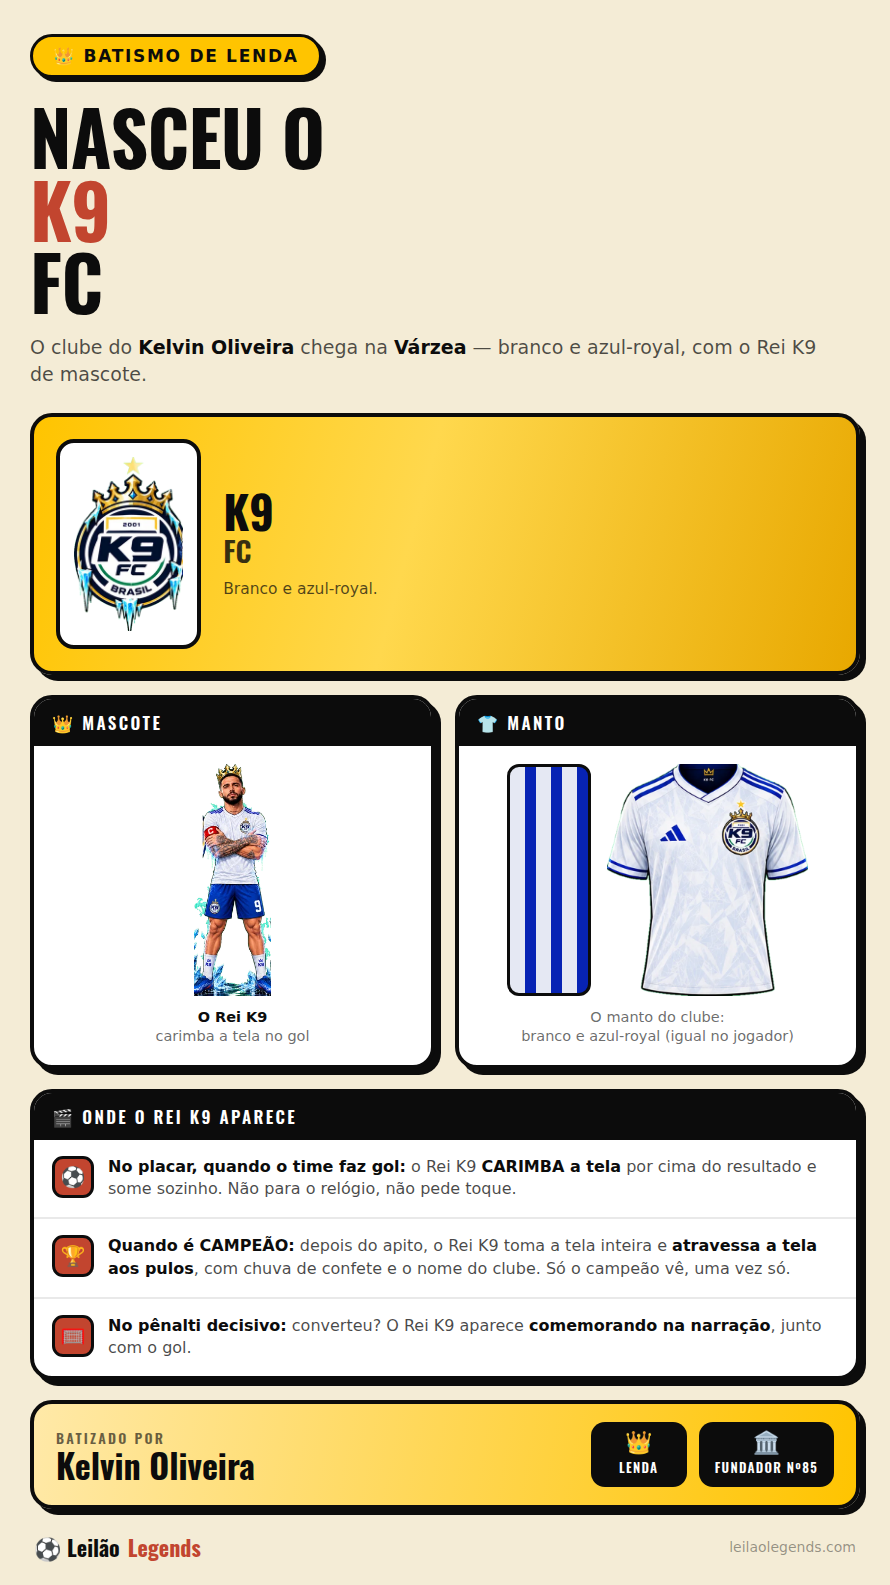
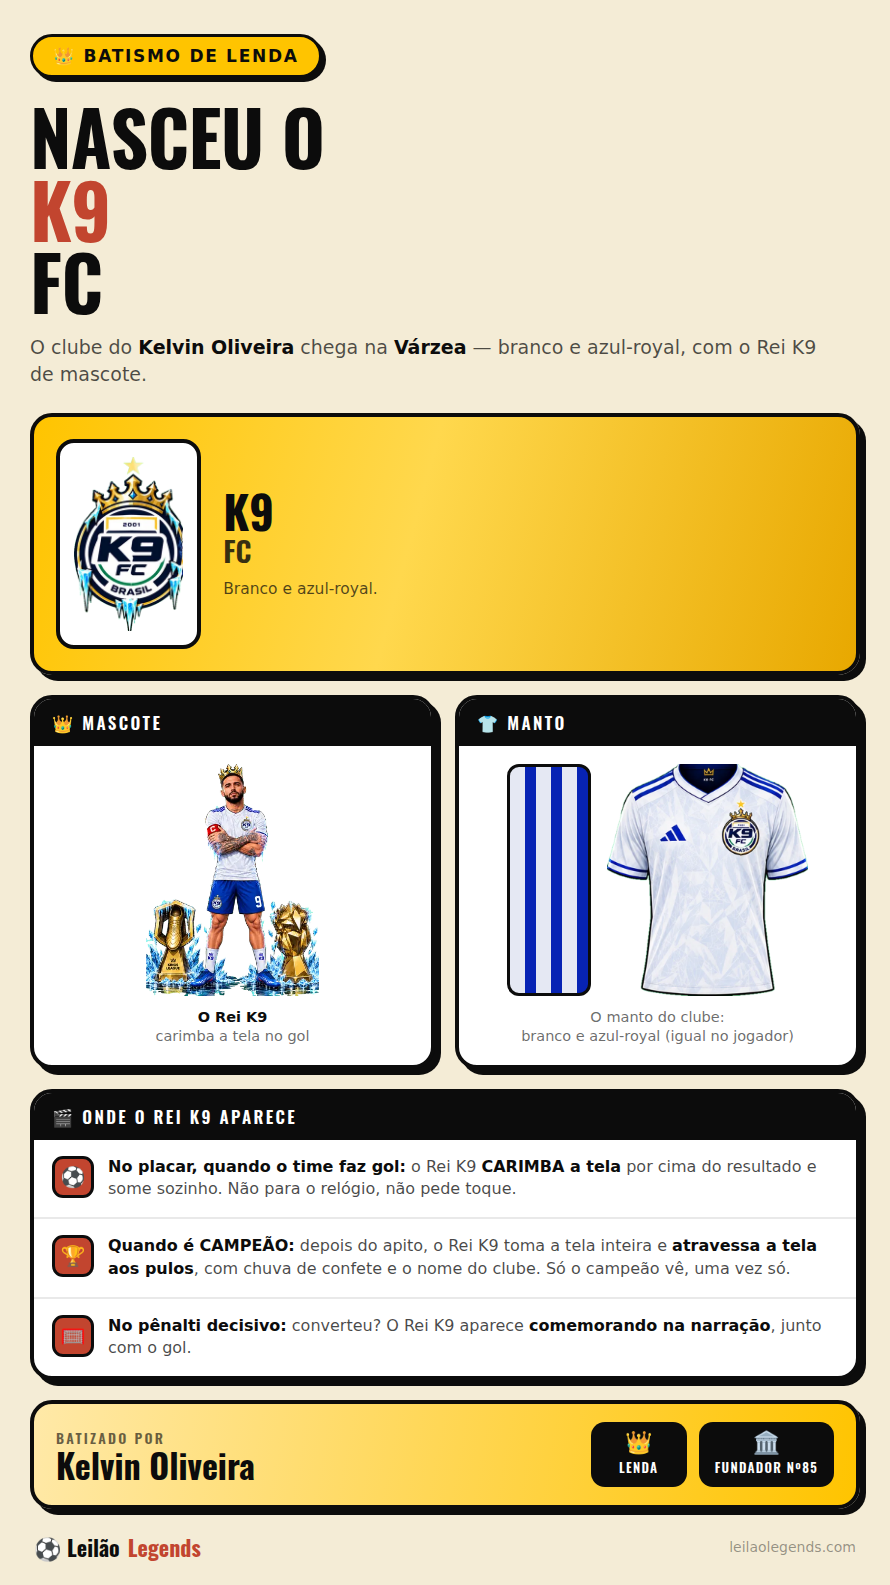
K9 FC: mascote com as duas taças e o gelo, braço da braçadeira inteiro (aprovado pelo Diego)
Claude-Session: https://claude.ai/code/session_018Ap1zPCMVL9XeZJN3u93ZA

Changed region(s): [[0.1517, 0.4637, 0.364, 0.6492]]

diff --git a/src/escalacao/mascotes.tsx b/src/escalacao/mascotes.tsx
@@ -351,10 +351,12 @@ export const MASCOTES: Record<string, ReactNode> = {
   // tridente, agachado com a garra em cima da bola. Arte do próprio dono.
   // 📏 258×440, 45 KB — é ALTO, então a altura fica em 176. mascote_key = "vieira_diabo".
   // 👑 O REI K9 (mascote do K9 FC — kelvinoliveiraandradeenunes, 06/10): o próprio camisa 9 de coroa,
-  // braços cruzados e braçadeira de capitão, pisando no gelo. Arte do próprio dono.
-  // 📏 145×440, 32 KB — é ALTO, então a altura fica em 176. mascote_key = "k9_rei".
+  // braços cruzados e braçadeira de capitão, entre as duas taças, pisando no gelo. Arte do próprio dono.
+  // Diego (06/10): a 1ª versão (só o jogador, sem taças/gelo) ficou *"horrível"* — a cena inteira é a mascote.
+  // O braço da braçadeira passa por cima do escudo na prancha: recortado fora do círculo do escudo.
+  // 📏 328×440, 42 KB — a altura fica em 176. mascote_key = "k9_rei".
   k9_rei: (
-    <img src={k9MascoteImg} height={176} width={Math.round(176 * 145 / 440)} alt="O Rei K9 — K9 FC" style={{ flex: 'none', display: 'block', objectFit: 'contain' }} />
+    <img src={k9MascoteImg} height={176} width={Math.round(176 * 328 / 440)} alt="O Rei K9 — K9 FC" style={{ flex: 'none', display: 'block', objectFit: 'contain' }} />
   ),
   vieira_diabo: (
     <img src={vieiraMascoteImg} height={176} width={Math.round(176 * 258 / 440)} alt="O Diabo — Vieira FC" style={{ flex: 'none', display: 'block', objectFit: 'contain' }} />

diff --git a/docs/pendencias.md b/docs/pendencias.md
@@ -3,7 +3,7 @@
   **Meia-Boca FC** (`VARZEA_TEAMS` = os bots da liga de quem começa carreira na escada; `OLD_NAME` leva save antigo pro
   nome novo). Fundador nº85 · sócio nº66 · Lenda.
 - Arte do dono (prancha com escudo, o próprio jogador, camisa e troféus no fundo verde — recortada por máscara à mão):
-  escudo 226×360/27 KB · mascote "O Rei K9" (o jogador de coroa) 145×440/32 KB · camisa da Loja. Manto medido: branco
+  escudo 226×360/27 KB · mascote "O Rei K9" (o jogador de coroa ENTRE AS DUAS TAÇAS, no gelo — a 1ª versão só com ele o Diego achou "horrível") 328×440/42 KB · camisa da Loja. Manto medido: branco
   #E5E8F3 (81%) + azul #0723B4 (listras/gola).
 - Banco feito: user_colors ouro · esc_fundadores 85 · esc_socios 66 (escudo_time K9 FC, mascote k9_rei) ·
   esc_nomes_batismo "K9" (o gatilho criou K9 FC/EC).
